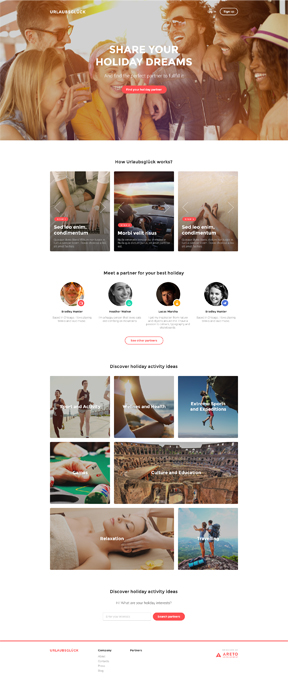
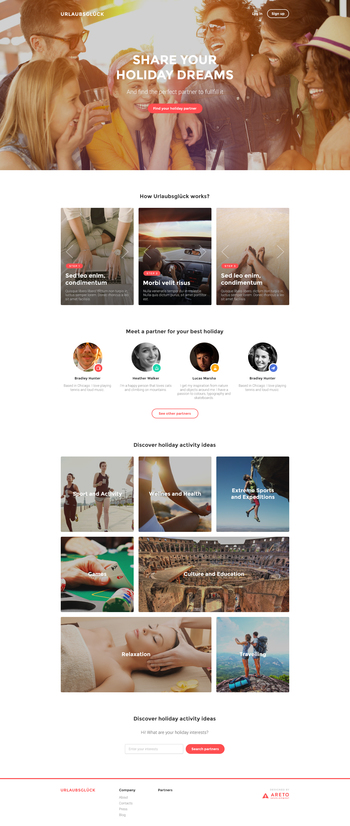
Update

diff --git a/index.html b/index.html
@@ -61,9 +61,11 @@
                     <h1>My Works</h1>
                     <hr/>
                     <div class="row">
-                        <div class="col-md-4">
-                            <h4>URLAUBSGLÜCK Landing Page</h4>
+                        <div class="works">
+                        <li>
+                            
                             <div class="project-thumbnail"></div>
+                            <h4>URLAUBSGLÜCK Landing Page</h4>
                             <nav class="info">
                                 <ul>
                                     <li><a target="_blank" href="my-work/URLAUBSGLUCK-Landing/index.html">
@@ -72,20 +74,36 @@
                                         <button class="button border">Code</button></a></li>
                                 </ul>
                             </nav>
-                        </div>
-                        <!-- <div class="col-md-4"><img class="center-block" src="http://alexdevero.com/img/Off-road-Park-Template---CodePen-thumbnail.jpg" alt="Off-road Park" /></div>
-                        <div class="col-md-4"><img class="center-block" src="http://alexdevero.com/img/Crossfit-html5-Template---CodePen-thumbnail.jpg" alt="Crossfit stars" /></div> -->
+                      </li>
+                           <li>          
+                            
+                            <div class="project-thumbnail"></div>
+                            <h4>URLAUBSGLÜCK Landing Page</h4>
+                            <nav class="info">
+                                <ul>
+                                    <li><a target="_blank" href="my-work/URLAUBSGLUCK-Landing/index.html">
+                                        <button class="button border">Demo</button></a></li>
+                                    <li><a target="_blank" href="https://github.com/IAmStrong/URLAUBSGLUCK-Landing">
+                                        <button class="button border">Code</button></a></li>
+                                </ul>
+                            </nav>
+                        </li>
+                           <li>  
+                            
+                            <div class="project-thumbnail"></div>
+                            <h4>URLAUBSGLÜCK Landing Page</h4>
+                            <nav class="info">
+                                <ul>
+                                    <li><a target="_blank" href="my-work/URLAUBSGLUCK-Landing/index.html">
+                                        <button class="button border">Demo</button></a></li>
+                                    <li><a target="_blank" href="https://github.com/IAmStrong/URLAUBSGLUCK-Landing">
+                                        <button class="button border">Code</button></a></li>
+                                </ul>
+                            </nav>
+                             </li>
+                      </div>
                     </div>
-<!--                     <div class="row">
-                        <div class="col-md-4"><img class="center-block" src="http://alexdevero.com/img/Yoga-Studio-Template---CodePen-thumbnail.jpg" alt="Green lotus yoga" /></div>
-                        <div class="col-md-4"><img class="center-block" src="http://alexdevero.com/img/TemplateStorm-HTML5-Template---CodePen-thumbnail.jpg" alt="TeplateStorm" /></div>
-                        <div class="col-md-4"><img class="center-block" src="http://alexdevero.com/img/Asperion-HTML5-template---CodePen-thumbnail.jpg" alt="Asperion" /></div>
-                    </div>
-                    <div class="row">
-                        <div class="col-md-4"><img class="center-block" src="http://alexdevero.com/img/Orion-Analytics-HTML5-Template---CodePen-thumbnail.jpg" alt="Orion Analytics" /></div>
-                        <div class="col-md-4"><img class="center-block" src="http://alexdevero.com/img/_Smoothie--demo--04-smoothie-thumbnail.jpg" alt="Smoothie" /></div>
-                        <div class="col-md-4"><img class="center-block" src="http://alexdevero.com/img/Gamers-paradise-template---CodePen-snapshot-thumbnail.jpg" alt="Gamers paradise" /></div>
-                    </div> -->
+                      </div>
                 </div>
             </section>
             <section id="contact" class="sec-contact">
@@ -108,13 +126,14 @@
             </section>
             <footer id="footer">
                 <div class="container">
-                    <ul class="soc-media-ul">
+                <p>© 2016 Artem Zhylko</p>
+<!--                     <ul class="soc-media-ul">
                         <li><a href="http://twitter.com/AlexDevero" class="fa fa-2x fa-twitter" target="_blank"></a></li>
                         <li><a href="https://plus.google.com/u/0/+AlexDevero" class="fa fa-2x fa-google-plus" target="_blank"></a></li>
                         <li><a href="http://cz.linkedin.com/pub/alex-devero/38/262/70/" class="fa fa-2x fa-linkedin" target="_blank"></a></li>
                         <li><a href="https://www.behance.net/d3v3r0" class="fa fa-2x fa-behance" target="_blank"></a></li>
                         <li><a href="mailto:deveroalex@gmail.com" class="fa fa-2x fa-envelope"></a></li>
-                    </ul>
+                    </ul> -->
                 </div>
             </footer>    
         </div>

diff --git a/css/styles.css b/css/styles.css
@@ -115,17 +115,17 @@ hr {
 
 .row h4 {
     text-align: center;
-    margin-bottom: 20px;
     color: #7f8c8d;
     font-size: 17px;
+        margin: 15px 0;
 }
 
 .info {
     display: table;
     margin: 0 auto;
-    padding: 10px;
+    padding: 0 10px 10px;
     font-size: 16px;
-    margin-bottom: 15px;
+    margin-bottom: 4px;
 }
 
 .info ul {
@@ -135,13 +135,15 @@ hr {
 .project-thumbnail {
     position: relative;
     margin: 0 auto;
-    height: 300px;
-    width: 270px;
+    height: 240px;
+    width: 312px;
       background: url(../images/work/URLAUBSGLÜCK_Landing_Desktop.jpg) no-repeat;
   background-size: cover;
-    -webkit-border-radius: 6px;
-  -moz-border-radius: 6px;
-  border-radius: 6px;
+  
+    margin-top: 9px;
+  -webkit-border-radius: 3px;
+  -moz-border-radius: 3px;
+  border-radius: 3px;
 }
 
 .project-thumbnail:after {
@@ -153,21 +155,48 @@ hr {
     transition: all .3s linear;
        background-color: rgba(236, 240, 241, 0.3); 
   width: 100%;
-  height: 300px;
+  height: 240px;
   position: absolute;
   top: 0;
   left: 0;
-  -webkit-border-radius: 6px;
+  -webkit-border-radius: 3px;
+  -moz-border-radius: 3px;
+  border-radius: 3px;
+}
+
+.col-md-4 {
+      -webkit-border-radius: 6px;
   -moz-border-radius: 6px;
   border-radius: 6px;
   -webkit-box-shadow: 0px 1px 3px 0px rgba(0, 0, 0, 0.2);
   -moz-box-shadow: 0px 1px 3px 0px rgba(0, 0, 0, 0.2);
   box-shadow: 0px 1px 3px 0px rgba(0, 0, 0, 0.2);
+  background: #fff;
+}
+
+.works {
+display: table;
+}
+
+.works > li {
+    list-style: none;
+    margin: 13px;
+      width: 330px;
+  position: relative;
+
+  float: left;
+  text-align: center;
+  background: #fff;
+  -webkit-border-radius: 3px;
+  -moz-border-radius: 3px;
+  border-radius: 3px;
+    -webkit-box-shadow: 0px 1px 3px 0px rgba(0, 0, 0, 0.2);
+  -moz-box-shadow: 0px 1px 3px 0px rgba(0, 0, 0, 0.2);
+  box-shadow: 0px 1px 3px 0px rgba(0, 0, 0, 0.2);
 }
 
 .contact-me li {
-    font-size: 18px;
-    margin-bottom: 15px;
+    font-size: 16px;
 }
 .contact-me li span {
     margin-left: 14px;
@@ -180,26 +209,39 @@ hr {
     background-repeat: no-repeat;
     border-radius: 50%;
 
-    width: 68px;
-    height: 68px;
+    width: 60px;
+    height: 60px;
 display: inline-block;
 vertical-align:middle
 }
+#work .row {
+    display: table;
+    margin: 0 auto;
+}
 
+.works > li:hover {
+-webkit-transition: all .3s;
+  -moz-transition: all .3s;
+  -o-transition: all .3s;
+  transition: all .3s;
+  -webkit-box-shadow: 0px 1px 3px 0px rgba(0, 0, 0, 0.4);
+  -moz-box-shadow: 0px 1px 3px 0px rgba(0, 0, 0, 0.4);
+  box-shadow: 0px 1px 3px 0px rgba(0, 0, 0, 0.4);
+}
 .gmail {
      background-image: url('../images/gmail-icon.png');
         background-color: #f5f5f5;
-            background-size: 53px 35px;
+            background-size: 47px 29px;
 }
 
 .linkedin {
     background-image: url('../images/linkedin-icon.png');
-       background-size: 70px 70px;
+       background-size: 65px 65px;
 }
 
 .skype {
     background-image: url('../images/skype-icon.png');
-       background-size: 70px 70px;
+       background-size: 65px 65px;
 }
 
 .no-bg:after {
@@ -302,7 +344,11 @@ vertical-align:middle
 }
 
 footer {
-  background: #000;
+  background: #7f8c8d;
+}
+
+footer p {
+    color:#ecf0f1;
 }
 
 .soc-media-ul {

diff --git a/js/main.js b/js/main.js
@@ -5,11 +5,9 @@ $(function() {
             scrollTop: $($.attr(this, 'href')).offset().top
         }, 750);
     });
-    $('.button').mouseover(function() {
-        $('.project-thumbnail').addClass('no-bg');
+        $('.works').children().mouseover(function() {
+        $(this).find('.project-thumbnail').addClass('no-bg');
     }).mouseout(function () {
         $('.project-thumbnail').removeClass('no-bg');
-    })/* .click(function () {
-        $('.project-thumbnail').removeClass('no-bg');
-    }) */;
+    });
 });
